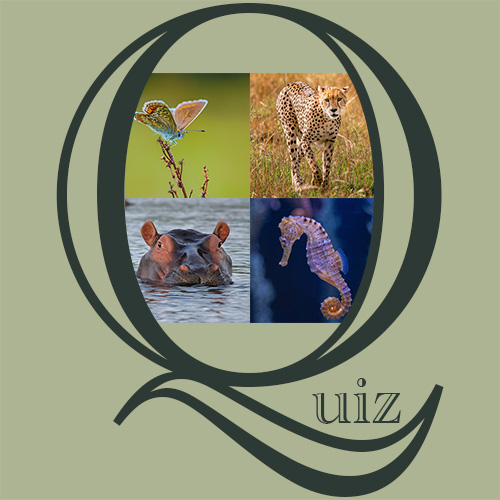
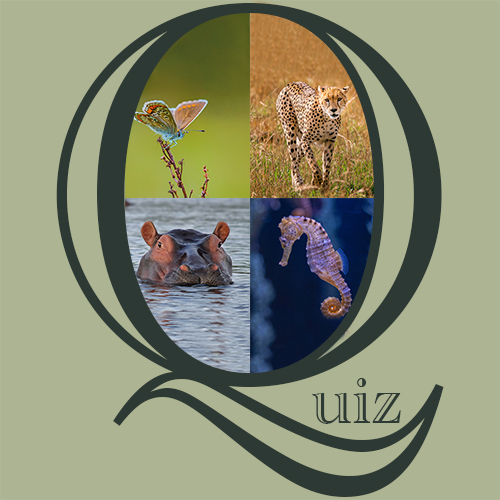
Add and style footer and change image

Changed region(s): [[0.3, 0.0, 0.69, 0.18], [0.3, 0.6, 0.69, 0.75]]

diff --git a/assets/css/style.css b/assets/css/style.css
@@ -187,3 +187,21 @@ h2 {
     background-color: #2d3934;
     color: #d8dcd0;
 }
+
+/* Footer section */
+
+#footer {
+    height: 55px;
+    width: 80%;
+    justify-content: center;
+    align-items: center;
+    max-height: unset;
+    max-width: 800px;
+    margin: 0 auto;
+    padding-top: 2rem;
+    padding-bottom: 1rem; 
+    background-color: #adb493;
+    font-family: 'Darker Grotesque', sans-serif;
+    font-size: 0.9rem;
+    color: #2d3934;  
+}

diff --git a/index.html b/index.html
@@ -20,6 +20,12 @@
             <!-- <button type="button" class="btn" onclick="window.location.href='high-scores.html'">High Scores</a> -->
         </div>
     </div>
-    
+    <footer id="footer" class="flex-center flex-column">
+        <div id="footer-copyright">
+            <p>
+                &copy; 2021 MCH
+            </p>
+        </div>
+    </footer>
 </body>
 </html>
